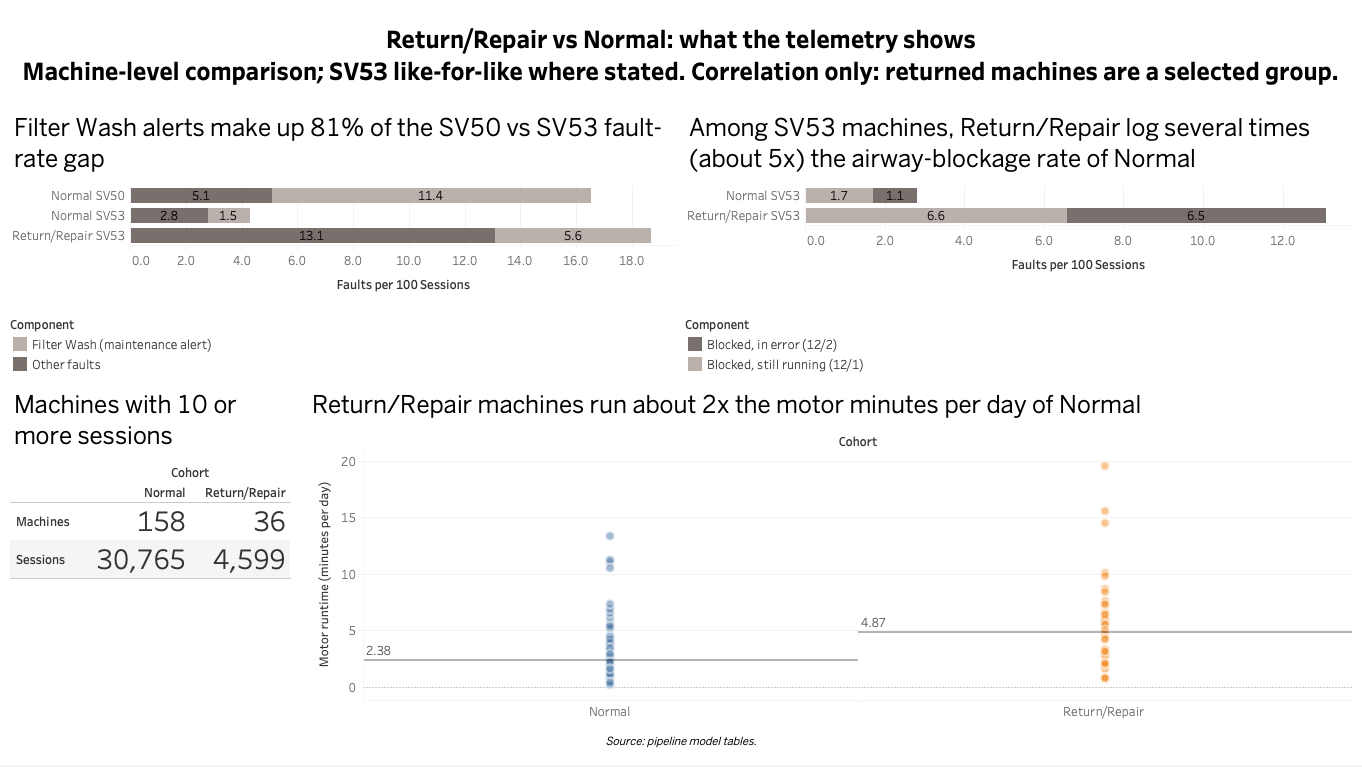
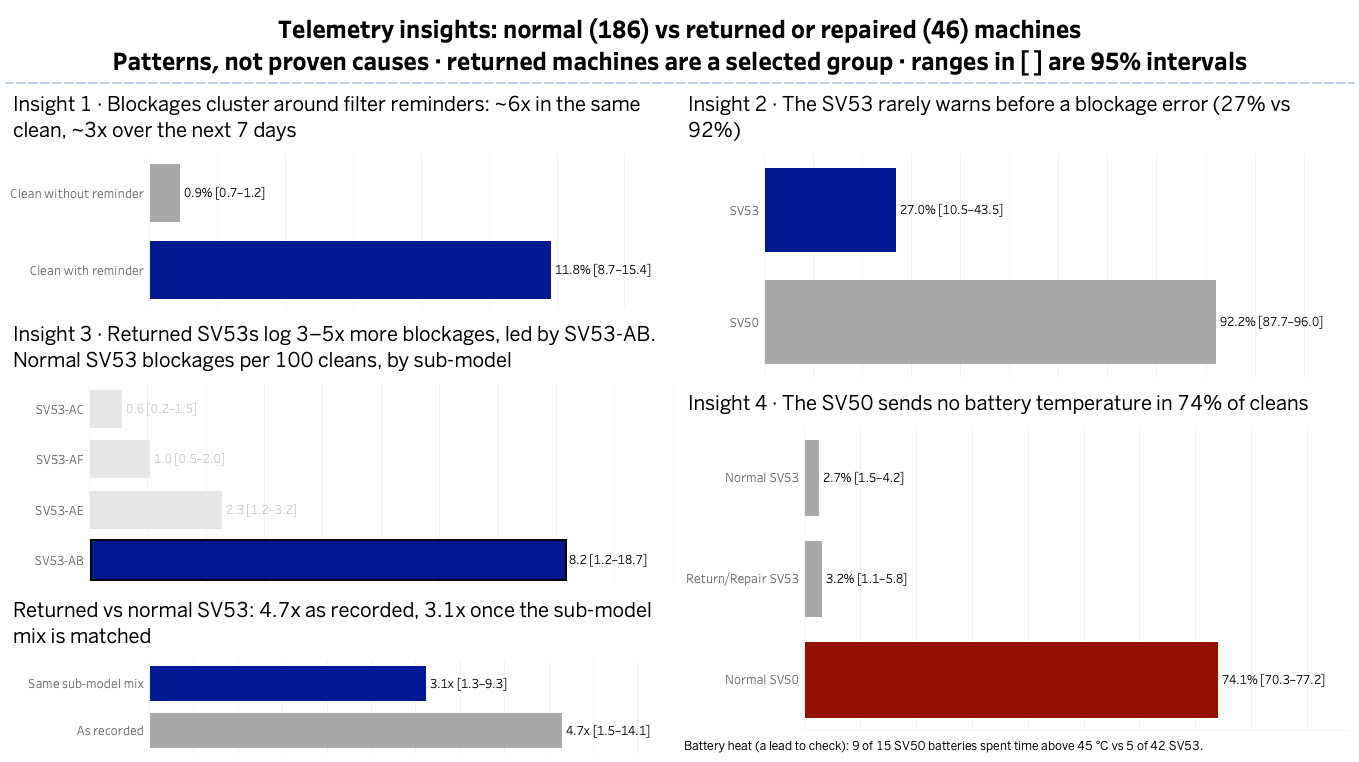
Add insights dashboard data and screenshots; retire the old findings dashboard

diff --git a/dashboard/data/README_dashboard.md b/dashboard/data/README_dashboard.md
@@ -1,0 +1,58 @@
+# Dashboard data: final insights
+
+Source of the dashboard: `dashboard/data/insights_dashboard.csv` (committed; a byte-identical copy is written to `data/model/tableau/`), written by `src/make_dashboard_data.py`
+(also run by `python src/run_all.py`). The other Tableau CSVs in `data/model/tableau/` are generated and git-ignored.
+Every value, interval and machine count is copied from the `f_` rows of `reports/insights/key_numbers.csv` by id;
+nothing is recomputed. The script re-reads the CSV and prints a pass/fail table against `key_numbers.csv`
+(string equality, i.e. full stored precision); it exits with an error if any value differs or an id is missing.
+
+## Layout (one dashboard section per insight, in deck order)
+| Order | Insight | Title | Charts |
+|---|---|---|---|
+| 1 | I1 | Blockages cluster around filter reminders | `same_clean` (2 bars), `lead_7d` (3 bars), `headline` (1) |
+| 2 | I4 | The SV53 rarely warns before a blockage error | `warned_first` (2 bars), `headline` (1) |
+| 3 | I3 | Returned SV53s log 3–5x more blockages, led by SV53-AB | `submodel` (4 bars), `ratio` (2 bars) |
+| 4 | I2 | The SV50 sends no battery temperature in most cleans | `no_temp` (3 bars), `hot_batteries` (2 points) |
+
+## What each chart shows
+| Chart | Insight | What it shows |
+|---|---|---|
+| `same_clean` | 1 | Share of cleans with an airway blockage with a Filter Wash reminder vs without (11.8% vs 0.9%) |
+| `lead_7d` | 1 | Blockage episode rate in the 7 days after a reminder vs other times, by group (Normal SV50, Normal SV53, Return/Repair SV53) |
+| `headline` (I1) | 1 | Same-session risk ratio, reminder vs none, same machine (6.0x) |
+| `warned_first` | 2 | Share of blockage-error sessions preceded by a warning, SV50 vs SV53 (92% vs 27%) |
+| `headline` (I4) | 2 | Difference between the two shares, percentage points (65.2 pp) |
+| `submodel` | 3 | Blockages per 100 cleans by SV53 sub-model, Normal machines (SV53-AB highest) |
+| `ratio` | 3 | Returned vs Normal blockage-rate ratio, as recorded (4.7x) and with the same sub-model mix (3.1x) |
+| `no_temp` | 4 | Share of cleans with no battery temperature flag (SV50 74%, SV53 3%) |
+| `hot_batteries` | 4 | Machines with discharge above 45 C: 9 of 15 SV50, 5 of 42 SV53 (low confidence) |
+
+The data quality screenshot (`dashboard/screenshots/02_dq_explorer.png`) is not built from this CSV: it shows raw vs usable rows per table and cohort (`dq_` rows of `key_numbers.csv`) and a machine-level scatter from `tableau_machines.csv`.
+
+## Columns
+| Column | Meaning |
+|---|---|
+| `deck_order` | 1–4, the order of the insight in the deck |
+| `insight_id` | Insight id used in the analysis (I1, I4, I3, I2) |
+| `insight_title` | Section title |
+| `chart` | Chart within the insight (see layout) |
+| `bar_label` | Text for the bar / point |
+| `bar_order` | Position within the chart |
+| `value` | Point estimate, as stored in `key_numbers.csv` |
+| `low`, `high` | Interval bounds, as stored; blank where none is stored (e.g. the machine counts in `hot_batteries`) |
+| `unit` | `pct` (percent; the I4 headline is percentage points), `per100` (type-12 faults per 100 clean sessions), `ratio`, `count` |
+| `n_machines` | Machines behind the value (for I3 sub-model bars, from the matching `f_i3_machines_` row) |
+| `role` | `focus` (highlighted), `baseline` (comparison), `gap` (the gap being shown) |
+| `label_text` | The printed label, formatted from the stored value and interval (e.g. `11.8% [8.7–15.4]`) |
+| `source_id` | `key_numbers.csv` id the row was copied from |
+
+`value` for the two `hot_batteries` rows is the percentage of machines; the label shows the counts ("9 of 15", "5 of 42").
+Roles `focus` / `baseline` were assigned for highlighting only and carry no statistical meaning.
+
+## Caveats
+- Intervals are 95% machine bootstraps (machines are resampled, not sessions), except where `key_numbers.csv` states otherwise for a specific row. Counts of 15 and 42 machines have no interval.
+- `hot_batteries` is low confidence: one SV50 machine holds 85% of SV50 hot discharge time, and few machines contribute battery data. It is shown as a baseline-style point for that reason.
+- Return/Repair machines are a selected population (selection bias), and several groups are small. Associations are not causal: for example, a blockage that follows a filter reminder does not show that the reminder or the filter caused it.
+- Fault ordering in I1 and I4 uses `fault_timestamp` (device time), which is inferred, not documented.
+- I3 "As recorded" and "Same sub-model mix" overlap; the intervals are wide, so "3–5x" is a range, not a precise figure.
+- Excluded on purpose: copy-group sizes (100/636), geography figures and `filter_wash_counter`.
